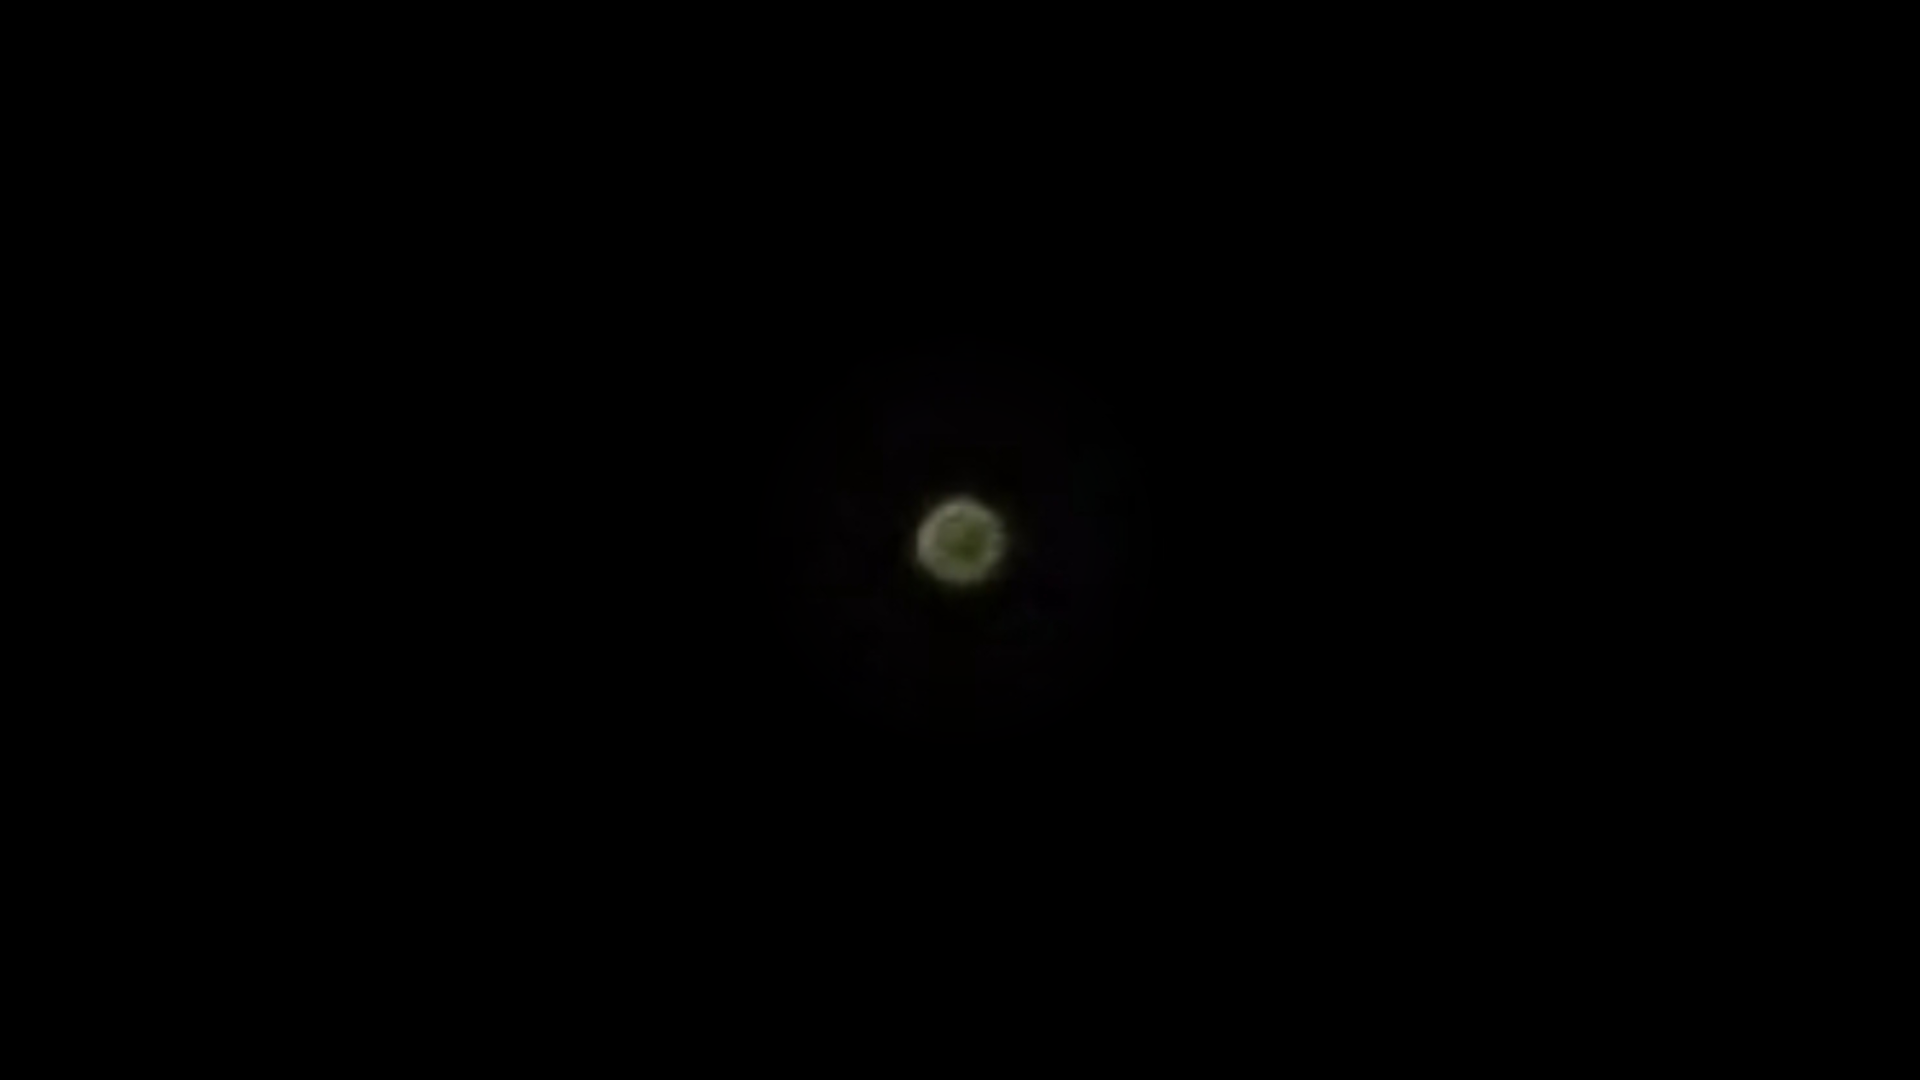
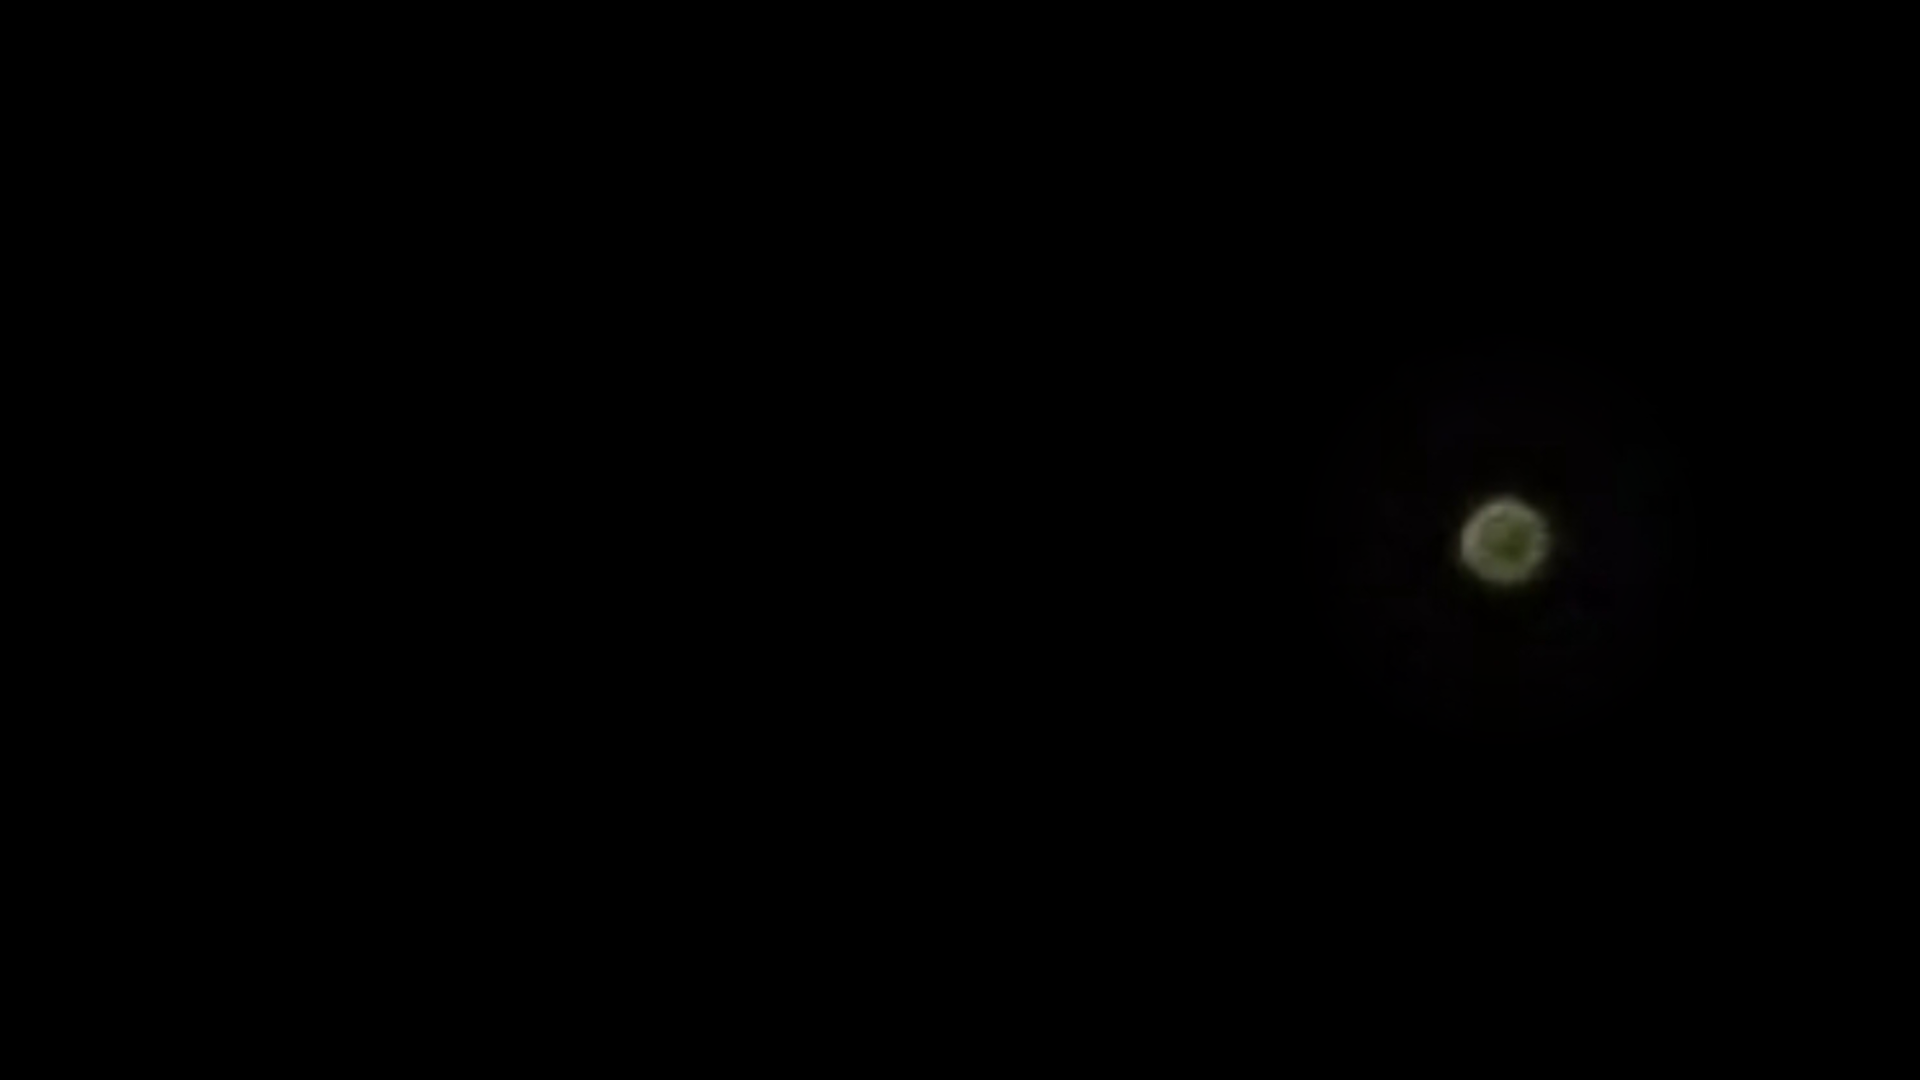
style: desplazar orbe de Atarfe a la derecha en la imagen y alinear el fondo a la derecha para no pisar el texto en desktop

Changed region(s): [[0.75, 0.4583, 0.8125, 0.55], [0.4688, 0.4583, 0.5312, 0.55]]

diff --git a/src/components/Hero.js b/src/components/Hero.js
@@ -72,6 +72,7 @@ const Hero = ({ userAuth }) => {
             {
                 id: 'especial-atarfe',
                 image: imgAtarfeReal,
+                backgroundPosition: 'right center',
                 subtitle: language === 'en' ? "DECLASSIFIED DOSSIER" : "DOSSIER DESCLASIFICADO",
                 title: "CASO OVNI ATARFE",
                 tagline: language === 'en' ? "THE ATARFE INCIDENT" : "EL INCIDENTE ATARFE Y ALBOLOTE",
@@ -196,7 +197,10 @@ const Hero = ({ userAuth }) => {
     return (
         <section 
             className="hero-global-mufon" 
-            style={{ backgroundImage: `url(${activeSlide.image})` }}
+            style={{ 
+                backgroundImage: `url(${activeSlide.image})`,
+                backgroundPosition: activeSlide?.backgroundPosition || 'center'
+            }}
         >
             <div className="hero-overlay-dark"></div>
             
